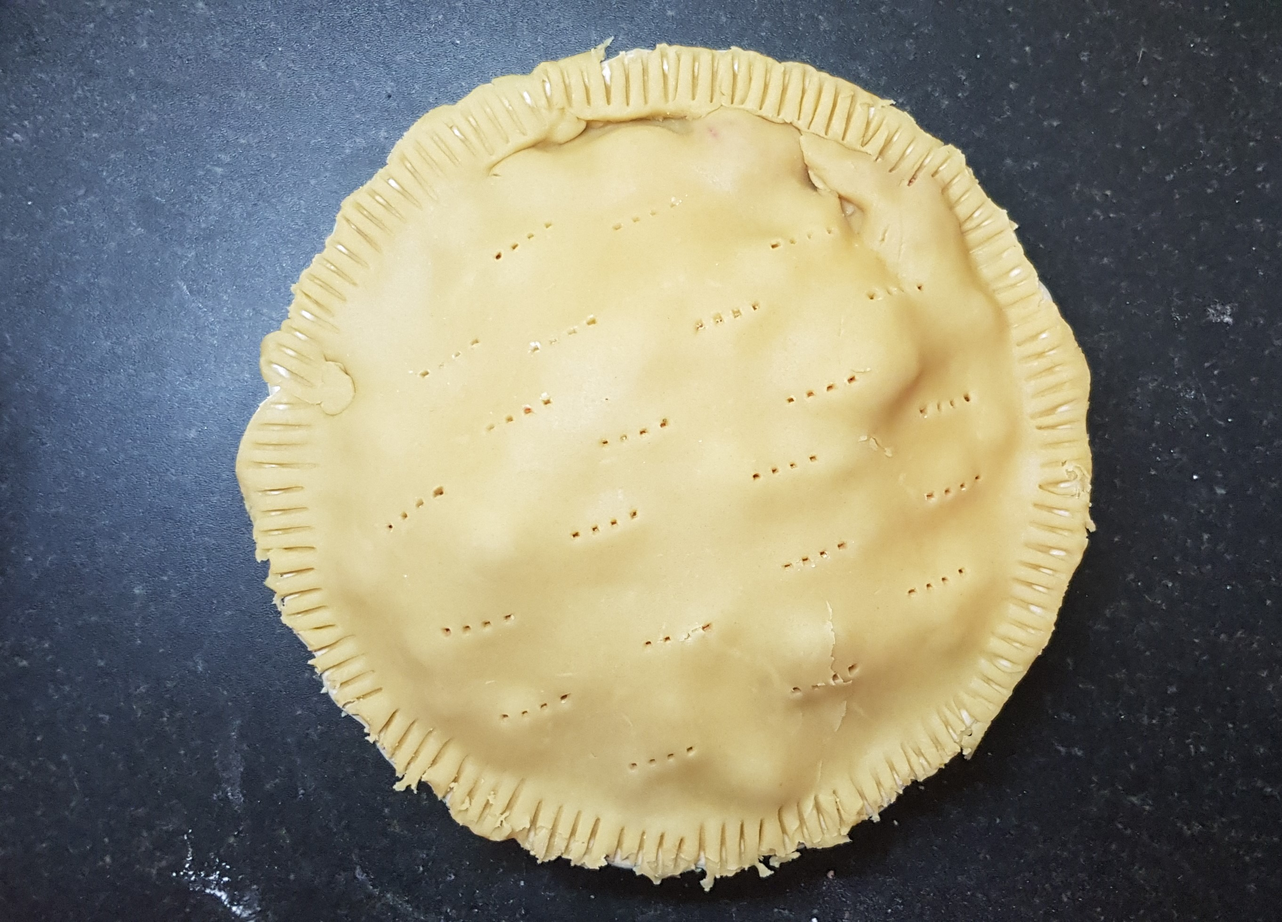
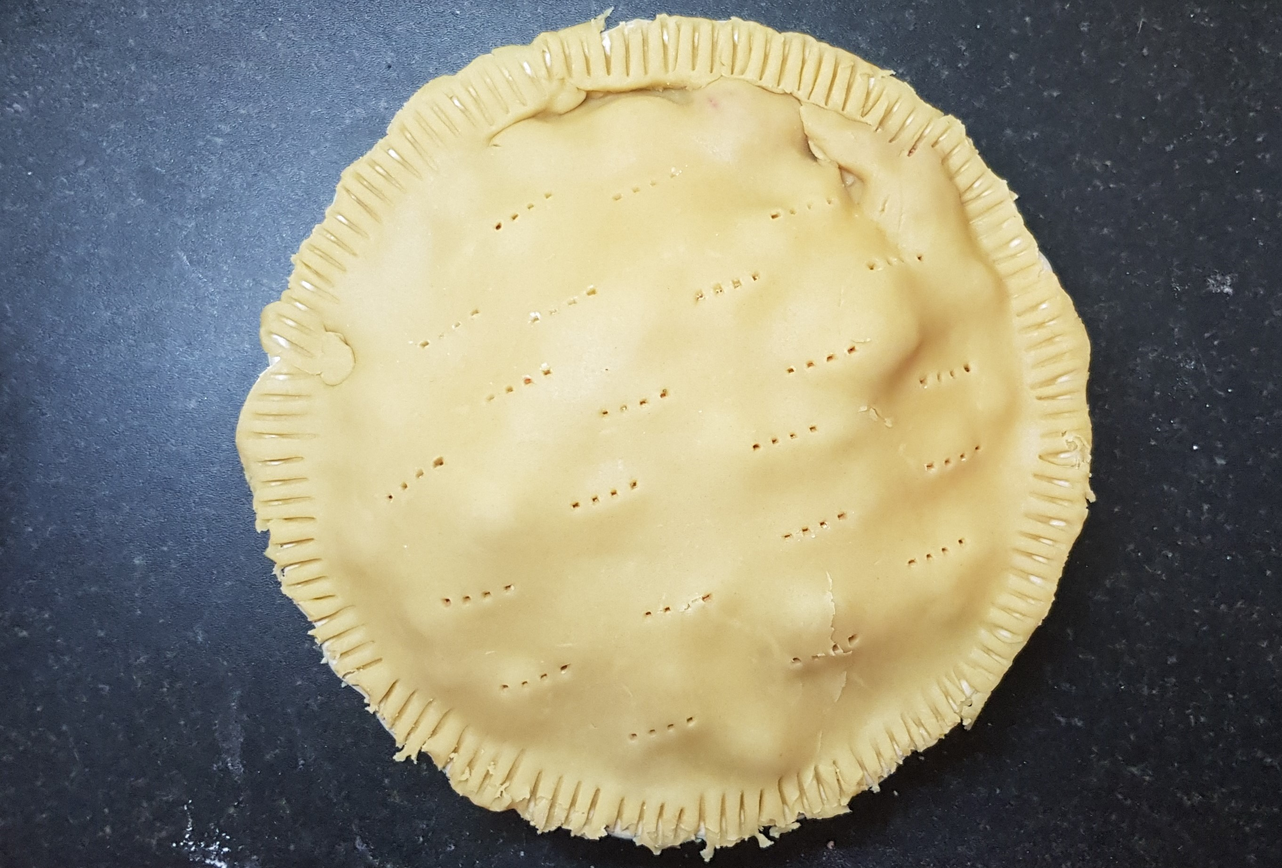
Updating the images for the pie recipe

diff --git a/_posts/2023-02-18-strawberry-pie.md b/_posts/2023-02-18-strawberry-pie.md
@@ -3,7 +3,7 @@ date: 2023-02-18
 title: Strawberry Pie
 categories:
   - Tarts
-featured_image: https://irishbaking.ie/images/Tarts/Strawberry_Pie/Image_5.jpg
+featured_image: https://irishbaking.ie/images/Tarts/Strawberry_Pie/Image_1.jpg
 recipe:
   servings: 12 slices
   prep: 15 minutes
@@ -74,19 +74,21 @@ Try not to eat all of the strawberries before putting them into the pie.
 
 ![Cake](https://irishbaking.ie/images/Tarts/Strawberry_Pie/Image_4.jpg)
 
-Added the sugar and cornstarch.
+I placed them evenly for the photo but life is more hectic.
 
 ![Cake](https://irishbaking.ie/images/Tarts/Strawberry_Pie/Image_5.jpg)
 
-Added more strawberries for good luck.
+Added the sugar and cornstarch.
 
 ![Cake](https://irishbaking.ie/images/Tarts/Strawberry_Pie/Image_6.jpg)
 
-Added the top of the tart to sceal in the flavour.
+Added more strawberries for good luck.
 
 ![Cake](https://irishbaking.ie/images/Tarts/Strawberry_Pie/Image_7.jpg)
 
-The top of the tart has an egg wash on it to make it look golden when it comes out of the oven.
+Added the top of the tart to sceal in the flavour.
 
 ![Cake](https://irishbaking.ie/images/Tarts/Strawberry_Pie/Image_8.jpg)
+
+The top of the tart has an egg wash on it to make it look golden when it comes out of the oven.
 
